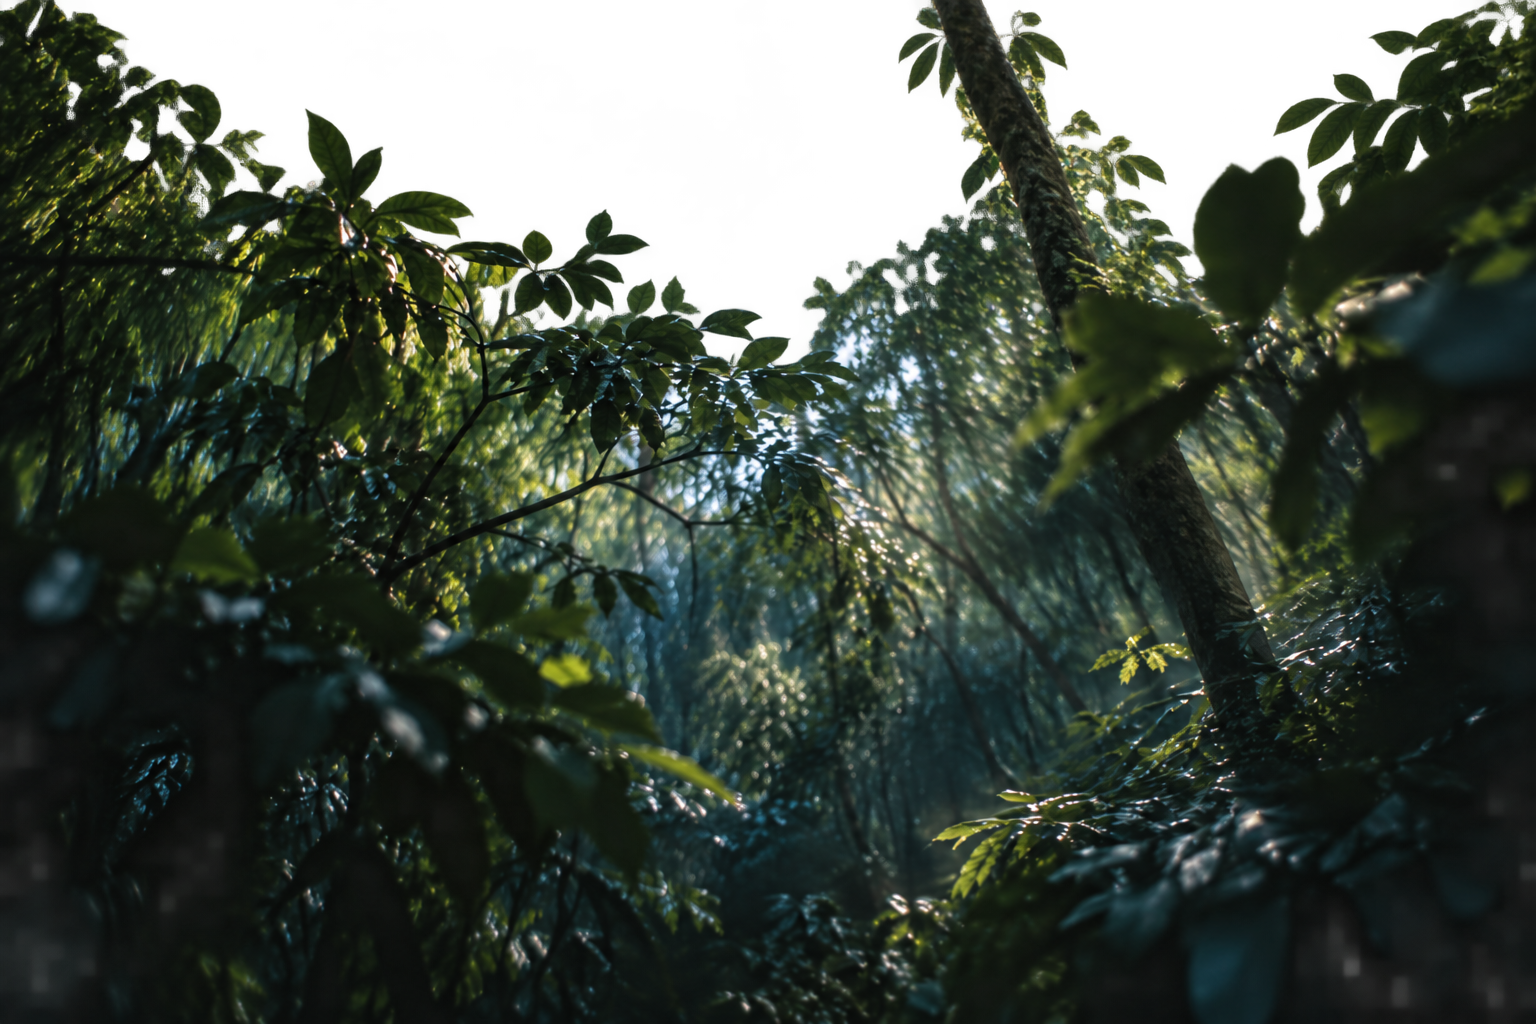
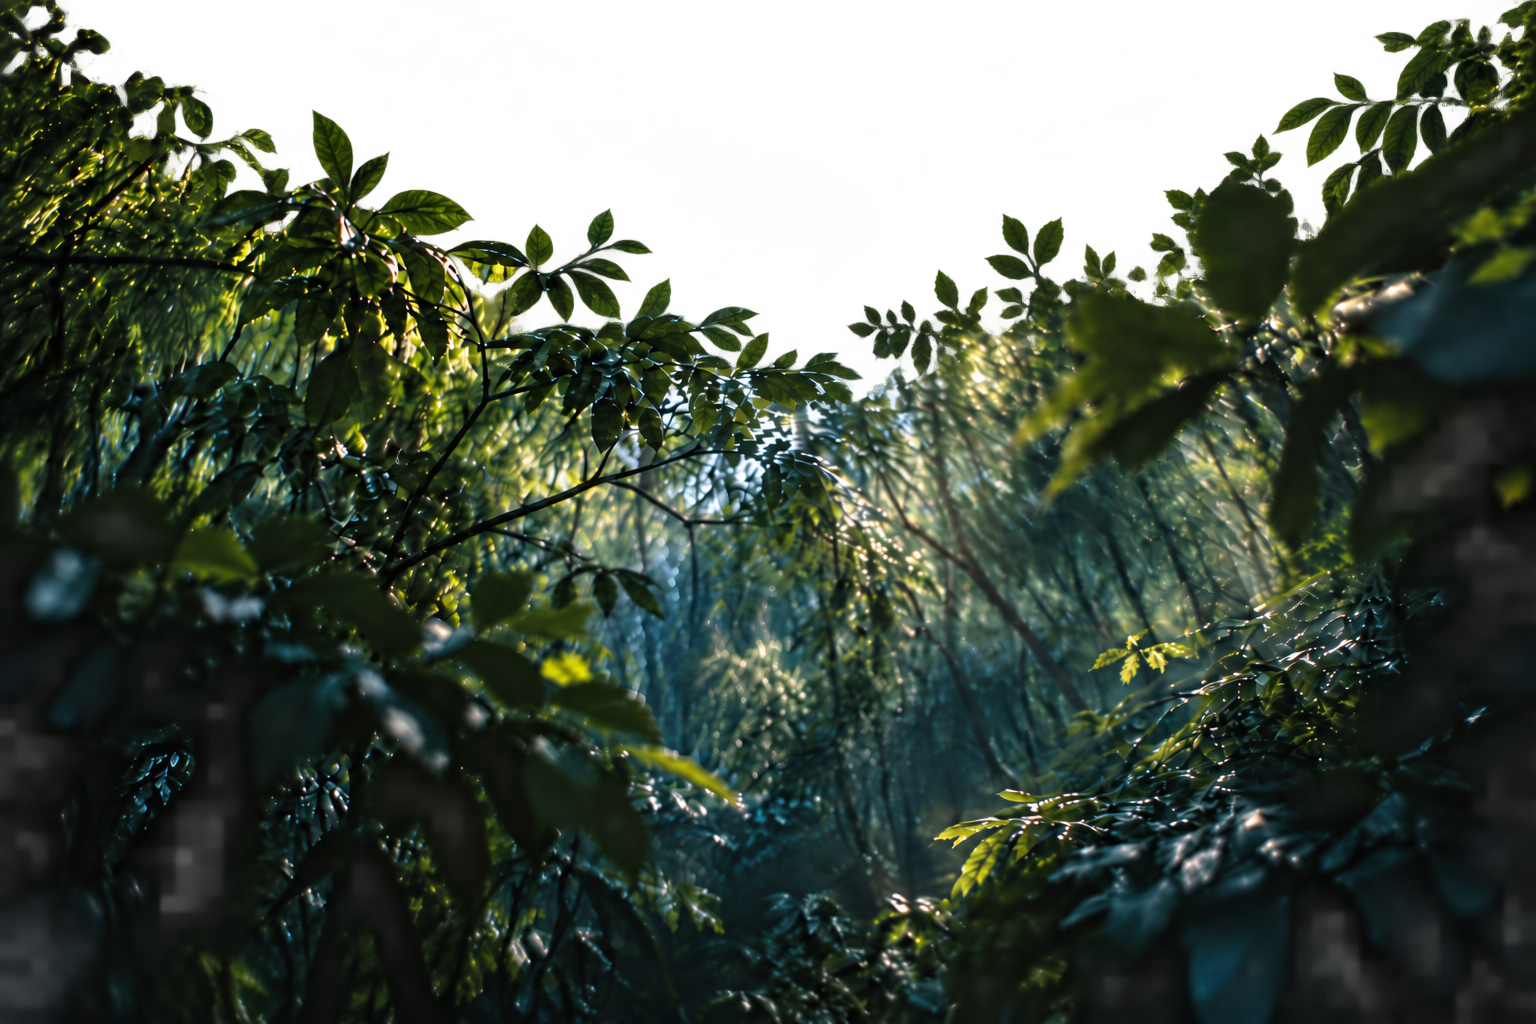
feat: update animation timing and viewport dimensions in Home component

diff --git a/src/routes/index.tsx b/src/routes/index.tsx
@@ -9,18 +9,19 @@ import { useEffect, useRef, useState, type RefObject } from 'react'
 
 export const Route = createFileRoute('/')({ component: Home })
 
-const GITHUB_URL = 'https://github.com/cinnamonjs/phutsakornts'
+const GITHUB_URL = 'https://github.com/cinnamonjs'
 
 function Home() {
   const locale = getLocale()
   const storyRef = useRef<HTMLElement>(null)
-  const progress = useScrollProgress(storyRef)
+  const rawProgress = useScrollProgress(storyRef)
+  const progress = paceScroll(rawProgress)
 
   const backgroundTwoProgress = range(progress, 0.06, 0.92)
-  const indexTwoProgress = range(progress, 0.5, 1)
-  const heroExitProgress = range(progress, 0.58, 0.86)
-  const mainBackgroundExitProgress = range(progress, 0.64, 0.9)
-  const indexTwoContentProgress = range(progress, 0.58, 0.82)
+  const indexTwoProgress = range(rawProgress, 0.5, 1)
+  const heroExitProgress = range(rawProgress, 0.25, 0.72)
+  const mainBackgroundExitProgress = range(rawProgress, 0.64, 0.9)
+  const indexTwoContentProgress = range(rawProgress, 0.58, 0.82)
   const backgroundTwoY = (1 - easeInOut(backgroundTwoProgress)) * 100
   const indexTwoY = (1 - easeInOut(indexTwoProgress)) * 100
 
@@ -28,7 +29,7 @@ function Home() {
     <main className="relative min-h-screen overflow-x-clip bg-[#04110f] text-paper">
       <section
         ref={storyRef}
-        className="relative h-[400vh]"
+        className="relative h-[240vh]"
         aria-label="Scroll from Index 01 to Index 02"
       >
         <div
@@ -69,10 +70,7 @@ function Home() {
             }}
           />
 
-          <div
-            className="absolute inset-0 z-10 mx-auto flex w-full flex-col px-6 will-change-transform sm:px-10"
-            style={{ opacity: 1 - heroExitProgress }}
-          >
+          <div className="absolute inset-0 z-10 mx-auto flex w-full flex-col px-6 will-change-transform sm:px-10">
             <header
               className={cn(
                 'reveal relative z-10 isolate mt-4 flex min-h-10 items-center justify-between overflow-hidden rounded-[1.15rem] bg-[rgba(16,33,23,0.52)] py-0.5 pl-4 pr-1.5 font-sora shadow-[0_1rem_2rem_rgba(3,18,10,0.25),inset_0_1px_0_rgba(255,255,255,0.2),inset_0_-1px_0_rgba(0,0,0,0.45)] backdrop-blur-xl backdrop-saturate-150',
@@ -137,6 +135,7 @@ function Home() {
               className="relative flex flex-1 items-center justify-center px-2 py-20 text-center will-change-transform sm:py-28"
               style={{
                 transform: `translate3d(0, ${-heroExitProgress * 48}px, 0)`,
+                opacity: 1 - heroExitProgress,
               }}
             >
               <div
@@ -191,14 +190,14 @@ function Home() {
             }}
           >
             <div
-              className="mx-auto flex min-h-screen w-full max-w-[96rem] flex-col justify-between px-6 py-8 will-change-transform sm:px-10 sm:py-10 lg:px-16"
+              className="mx-auto flex min-h-screen w-full max-w-384 flex-col justify-between px-6 py-8 will-change-transform sm:px-10 sm:py-10 lg:px-16"
               style={{
                 transform: `translate3d(0, ${(1 - indexTwoContentProgress) * 24}px, 0)`,
                 opacity: 0.35 + indexTwoContentProgress * 0.65,
               }}
             >
               <div className="flex items-center justify-between border-b border-white/15 pb-5 font-sora text-[0.62rem] font-semibold uppercase tracking-[0.24em] text-white/55">
-                <span>Index 02 / After dark</span>
+                <span>Index 02</span>
                 <span>Personal profile</span>
               </div>
 
@@ -266,6 +265,10 @@ function Home() {
 
 function range(value: number, start: number, end: number) {
   return Math.min(1, Math.max(0, (value - start) / (end - start)))
+}
+
+function paceScroll(value: number) {
+  return value <= 0.5 ? value * 1.3 : 0.65 + (value - 0.5) * 0.7
 }
 
 function easeInOut(value: number) {

diff --git a/design-qa.md b/design-qa.md
@@ -14,7 +14,7 @@
 
 ### Full-view comparison
 
-The first viewport preserves the supplied flora background, compact glass island, centered Playwrite IE headline, Sora description, and GitHub action. The full sequence now runs inside one 400vh sticky scene: `background.png` stays pinned beneath the composition, `background-2.png` rises from below, and Index 02 starts rising at 50% scroll. During the late phase, the original background fades and shifts upward while the Index 01 content makes a small upward exit; the sequence ends on a full-screen Index 02.
+The first viewport preserves the supplied flora background, compact glass island, centered Playwrite IE headline, Sora description, and GitHub action. The full sequence now runs inside a short 200vh sticky scene: `background.png` stays pinned beneath the composition, `background-2.png` rises from below, and Index 02 starts rising at 50% scroll. Motion is weighted 30% faster before the midpoint and 30% slower afterward. The Index 01 headline group begins its small upward fade at 25%, while the navbar remains steady; the sequence ends on a full-screen Index 02.
 
 ### Focused region comparison
 
@@ -32,7 +32,7 @@ The navbar keeps the compact island silhouette with no visible outer border, an 
 
 - The hero headline visibly draws even while the preview browser reports `prefers-reduced-motion: reduce`, and resolves to the complete title.
 - From 0–50%, Index 01 remains pinned and its background does not move while `background-2.png` rises from the bottom beneath the foreground copy.
-- At 50%, Index 02 begins rising from the bottom. `background-2.png` continues upward behind it; after 58%, the Index 01 copy shifts upward by 48px and fades, and after 64% the original background starts its upward fade.
+- At 25%, the Index 01 headline group begins shifting upward by 48px and fading without moving the navbar. At 50%, Index 02 begins rising from the bottom while `background-2.png` continues upward behind it; after 64%, the original background starts its upward fade.
 - At 100%, Index 02 fills the viewport over a solid `#04110f` surface.
 - “Scroll to explore” reaches `#about` and the dark profile is fully readable at that anchor.
 - Both GitHub actions point to `https://github.com/cinnamonjs/phutsakornts` in a new tab.
